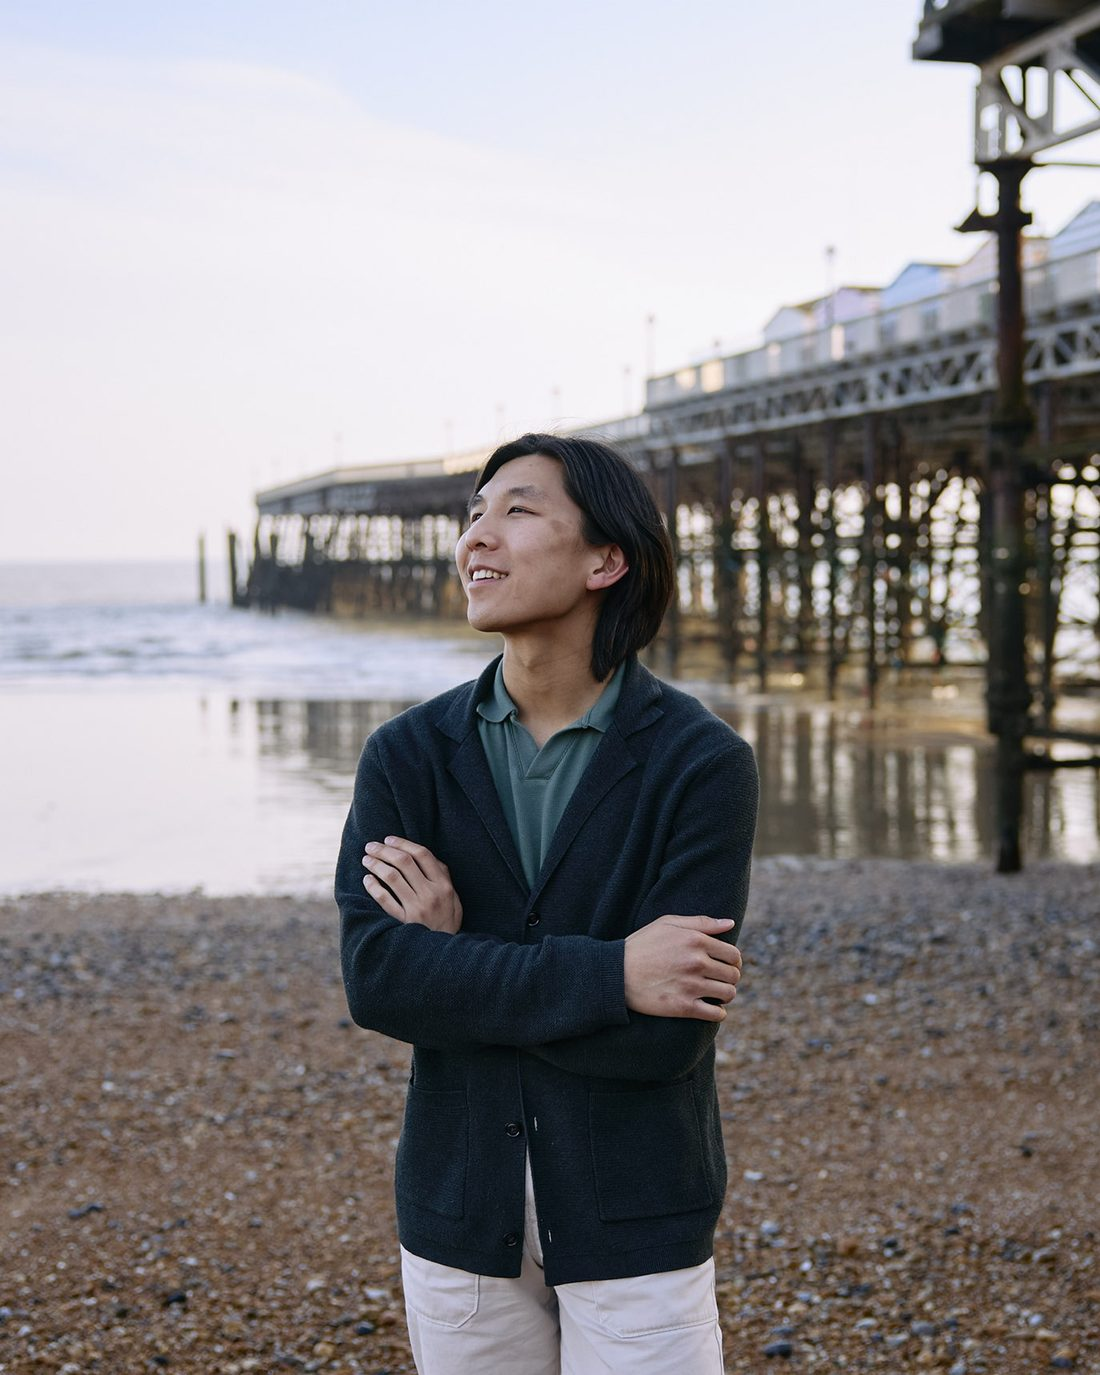
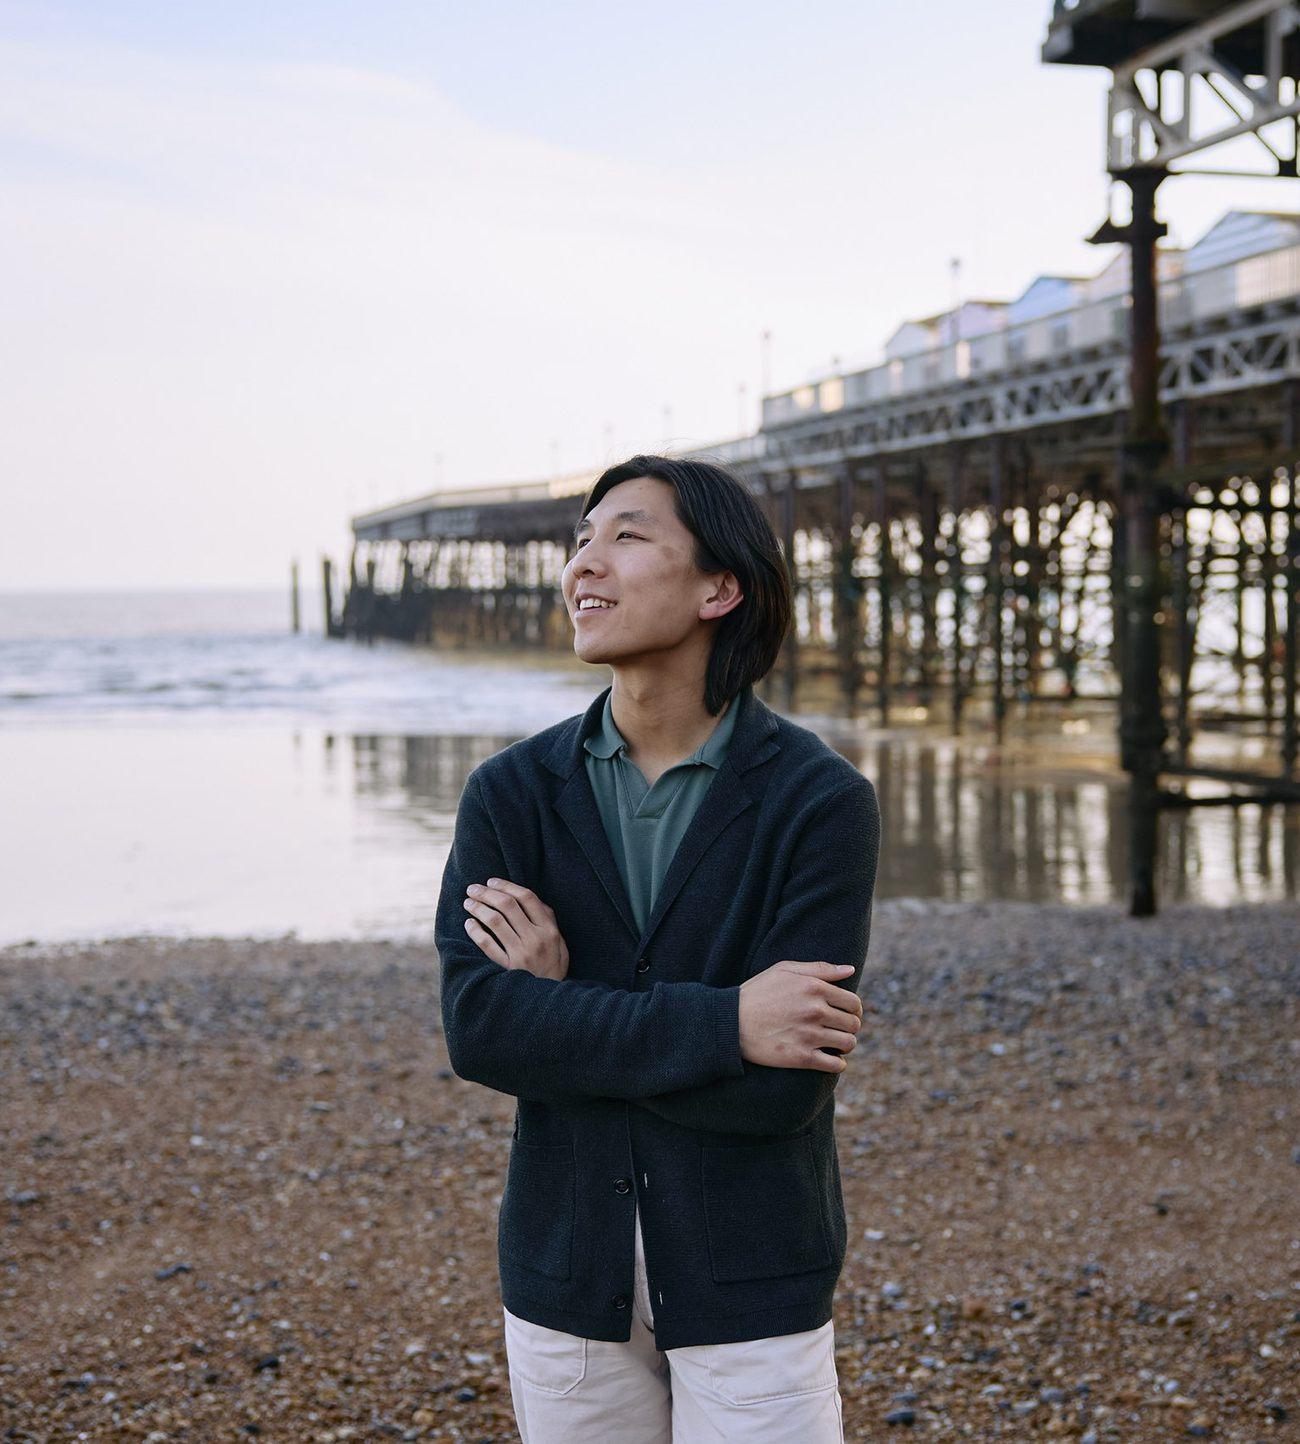
About portrait: bigger on desktop with lighter edge fade
Claude-Session: https://claude.ai/code/session_01YSXi5UhuPyAKSqynMZ5BS4

Changed region(s): [[0.0, 0.0, 1.0, 1.0], [0.0, 0.4582, 0.1855, 0.4887]]

diff --git a/style.css b/style.css
@@ -74,11 +74,11 @@ section,.band>.wrap{padding-top:64px;padding-bottom:80px}
 .two{display:grid;grid-template-columns:1fr 1fr;gap:56px;align-items:start}
 .two .ph{aspect-ratio:4/5}
 /* About page portrait: stays in place on desktop while the text scrolls past. */
-.portrait{position:sticky;top:64px;margin:0}
-.about{padding-top:40px}
-.about .two{grid-template-columns:1.2fr 1fr;gap:56px}
-.portrait img{display:block;width:100%;height:auto;max-height:calc(100vh - 128px);object-fit:cover;-webkit-mask-image:linear-gradient(to right,transparent,#000 9%,#000 91%,transparent),linear-gradient(to bottom,transparent,#000 9%,#000 91%,transparent);-webkit-mask-composite:source-in;mask-image:linear-gradient(to right,transparent,#000 9%,#000 91%,transparent),linear-gradient(to bottom,transparent,#000 9%,#000 91%,transparent);mask-composite:intersect}
-.portrait .credit{position:absolute;right:11%;bottom:10%;margin:0;font-family:"Cormorant Garamond",serif;font-style:italic;font-size:.8rem;letter-spacing:.04em;color:rgba(245,238,230,.62)}
+.portrait{position:sticky;top:24px;margin:0 0 0 max(-220px,min(0px,calc((1100px - 100vw) / 2)))}
+.about{padding-top:4px}
+.about .two{grid-template-columns:1.45fr 1fr;gap:56px}
+.portrait img{display:block;width:100%;height:auto;max-height:calc(100vh - 112px);object-fit:cover;-webkit-mask-image:linear-gradient(to right,transparent,#000 5%,#000 95%,transparent),linear-gradient(to bottom,transparent,#000 5%,#000 95%,transparent);-webkit-mask-composite:source-in;mask-image:linear-gradient(to right,transparent,#000 5%,#000 95%,transparent),linear-gradient(to bottom,transparent,#000 5%,#000 95%,transparent);mask-composite:intersect}
+.portrait .credit{position:absolute;right:7%;bottom:6%;margin:0;font-family:"Cormorant Garamond",serif;font-style:italic;font-size:.8rem;letter-spacing:.04em;color:rgba(245,238,230,.62)}
 .note{font-size:.85rem;color:var(--soft)}
 .kit-group{margin:0 0 32px}
 .kit-group h3{font-size:1.5rem;margin:0 0 10px}

diff --git a/about.html b/about.html
@@ -20,7 +20,7 @@
 </div></header>
 <main id="main">
 <section class="about"><div class="wrap two">
-<figure class="portrait"><img src="about-portrait.jpg" alt="Ryan Zhu on a pebble beach by a pier, arms crossed, smiling" width="1100" height="1375"><figcaption class="credit">photo: Matthew Andrews</figcaption></figure>
+<figure class="portrait"><img src="about-portrait.jpg" alt="Ryan Zhu on a pebble beach by a pier, arms crossed, smiling" width="1300" height="1444"><figcaption class="credit">photo: Matthew Andrews</figcaption></figure>
 <div class="bio">
 <h1>About</h1>
 <p>Canadian pianist Ryan Zhu began his musical studies at the age of four and has since performed on concert stages across North America and Europe, presenting a broad range of repertoire and musical styles.</p>
